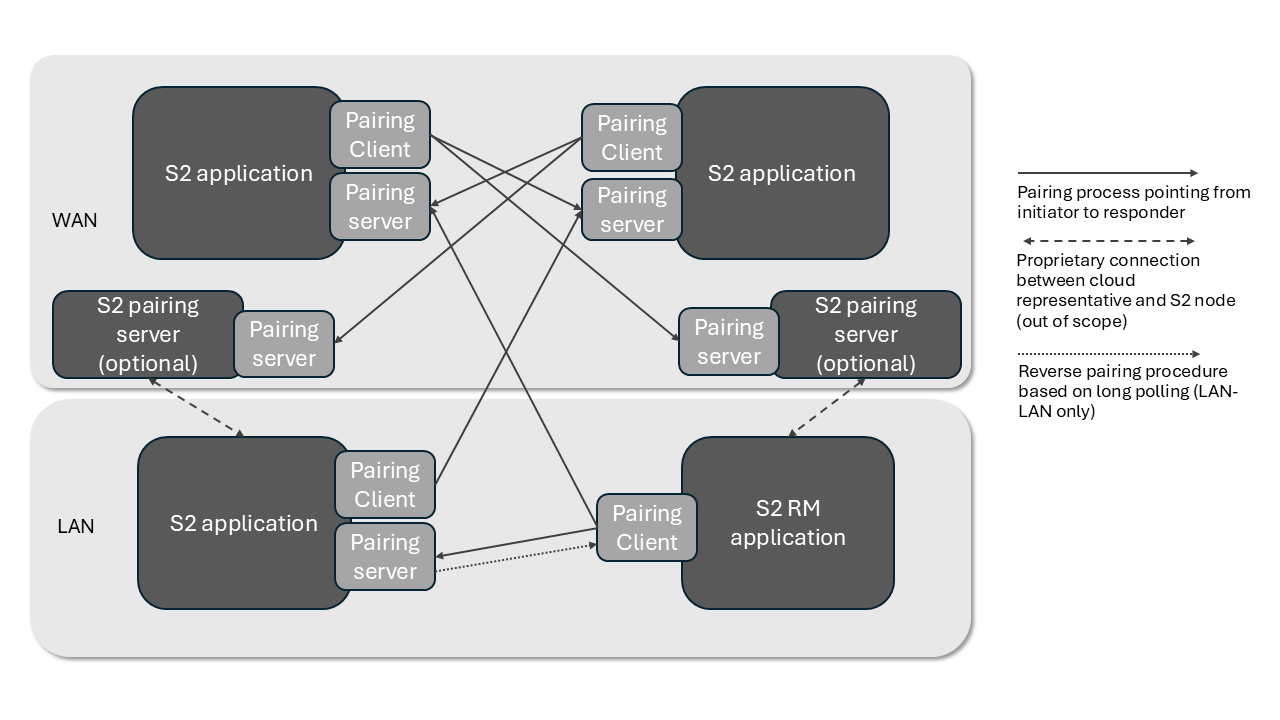
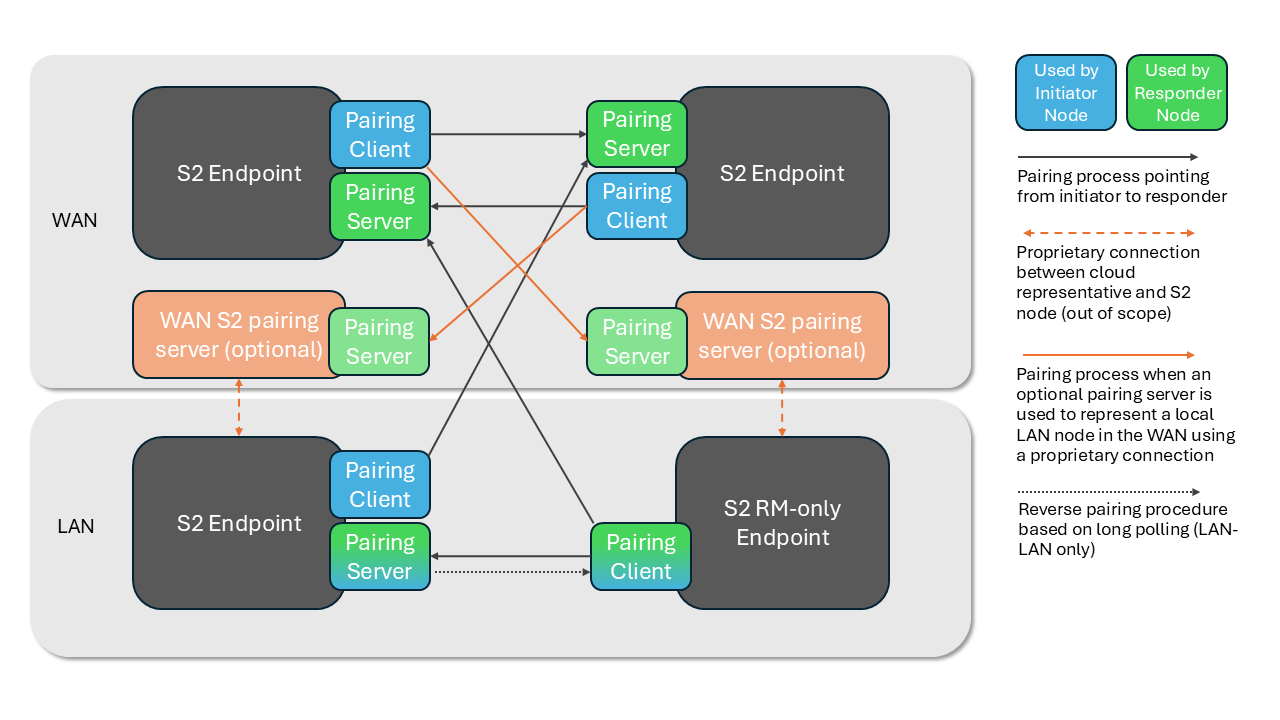
Improved overview image for pairing

diff --git a/website/s2-connect/discovery-pairing-authentication.md b/website/s2-connect/discovery-pairing-authentication.md
@@ -238,8 +238,7 @@ There are however two situations where this is not possible:
 
 ![Pairing_direction](@site/static/img/communication-layer/pairing_direction.png)
 
->>>> **Ewoud**: Plaatje opsplitsen want dit is de veel pijltjes. Alternatief voor WAN-LAN heb ik gemaakt in powerpoitn
-
+**Figure:** Overview of all possible ways to pair two nodes
 
 # Formal specification and versioning (normative)
 
